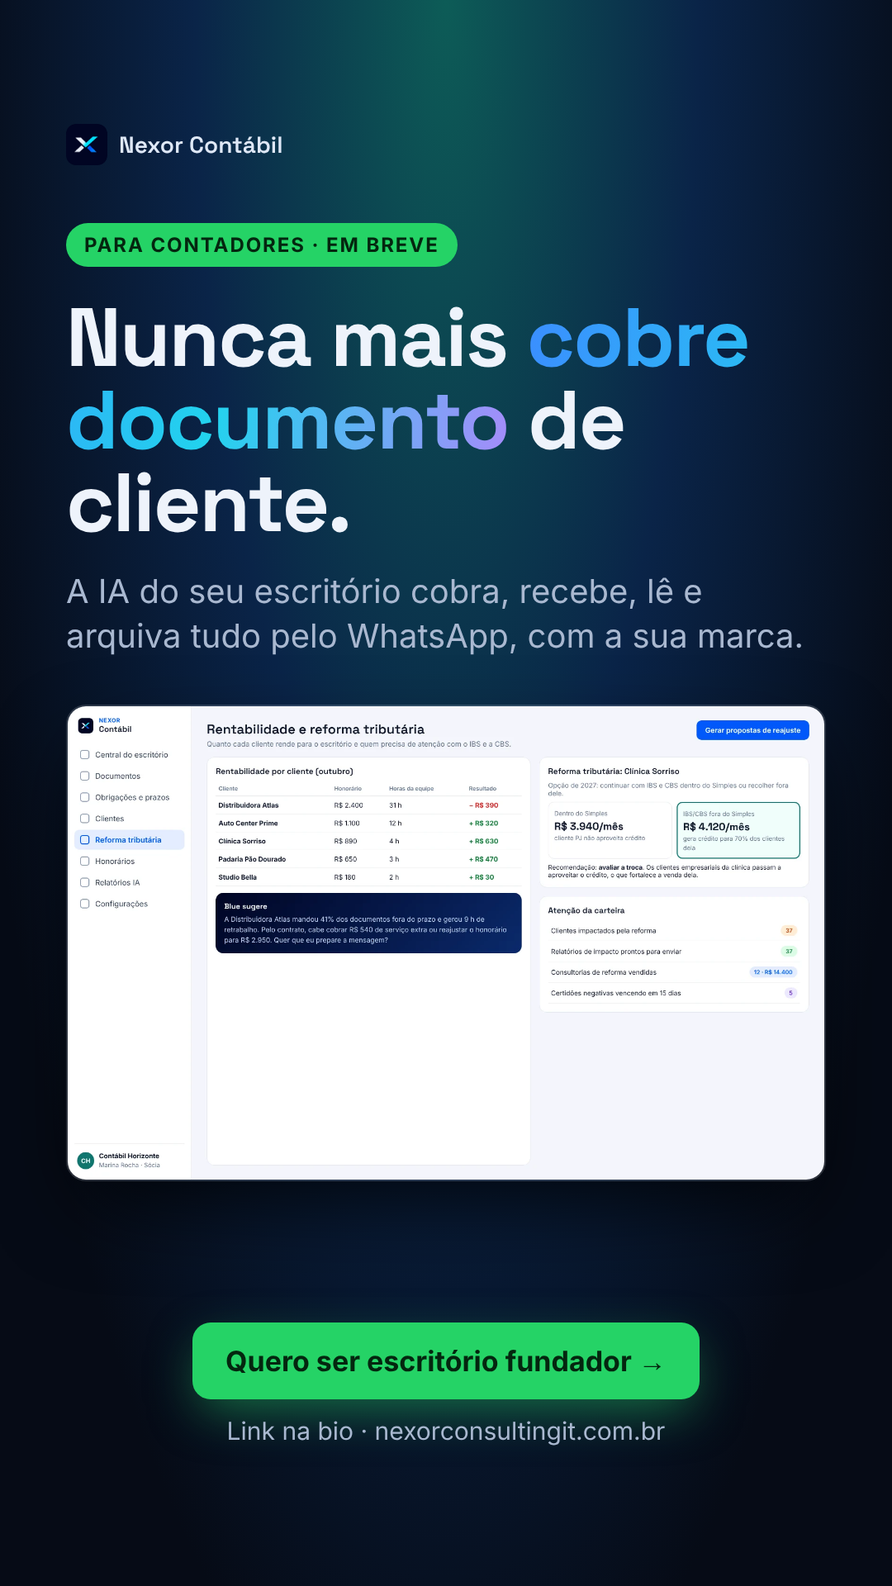
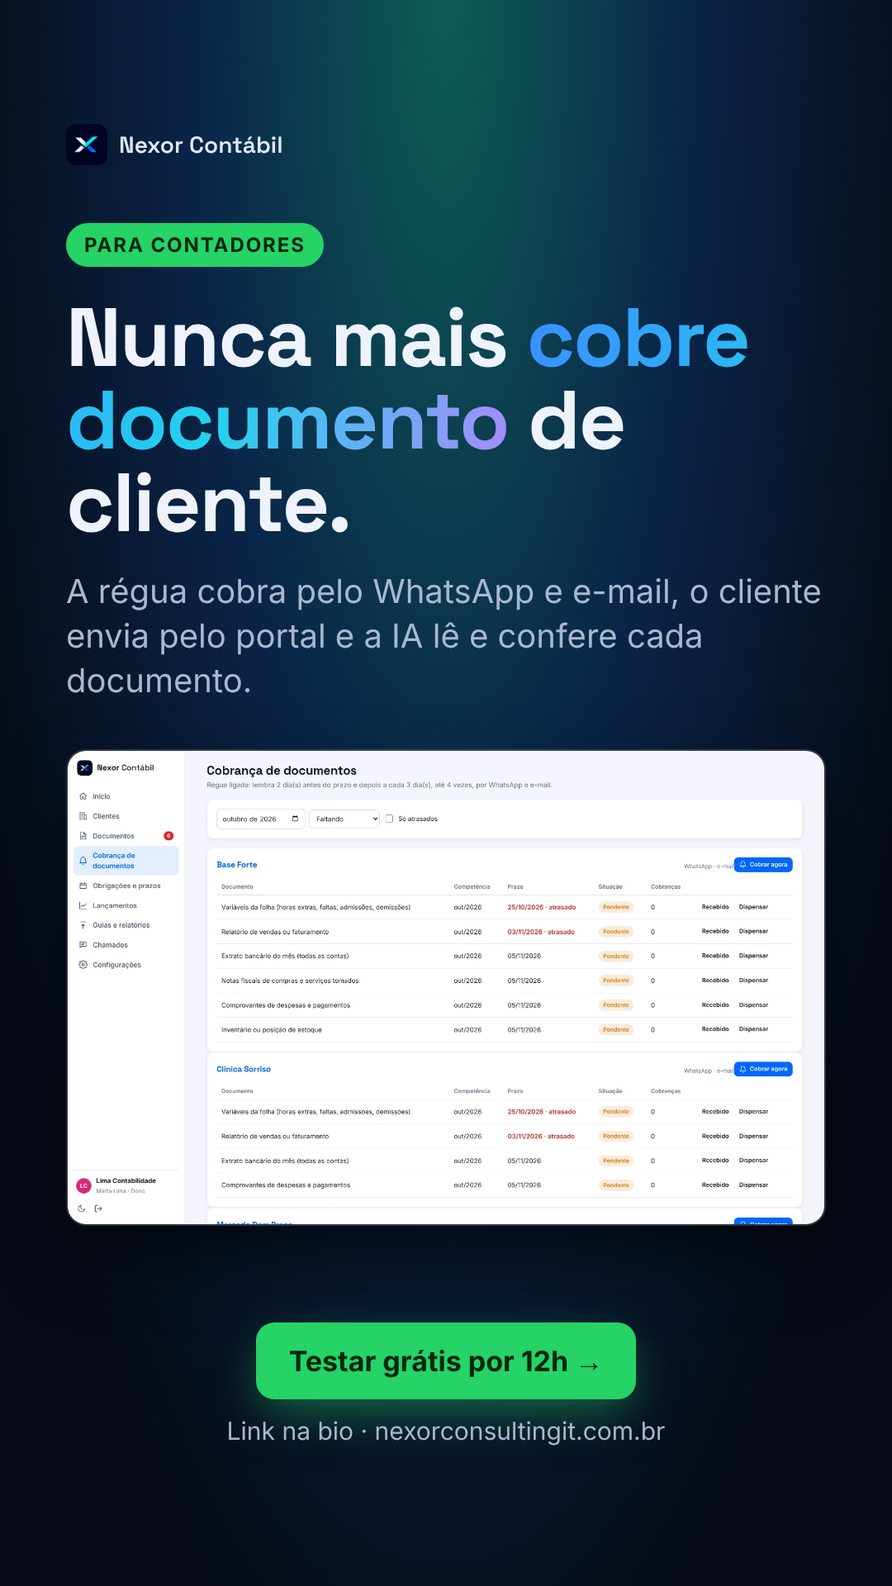
Tira Contábil, Agente, Barber e RH do Em breve na Blue e nos materiais
- Blue: Nexor Barber, Nexor Contábil e Nexor Agente entram na lista de soluções disponíveis,
  com os recursos que existem nos sistemas; saem do Em breve
- Peça de portfólio refeita: 23 soluções, com RH e Ponto, Contábil, Barber e Agente prontos
- Peças do Contábil com telas reais e teste grátis no lugar de Em breve e Fundadores,
  sem rentabilidade e reforma tributária, que o sistema não tem
- Legendas do kit e status das fichas de produto atualizados

Claude-Session: https://claude.ai/code/session_01HtYmcSBTzVETGZN32eqMPh

Changed region(s): [[0.0611, 0.3438, 0.9472, 0.7812], [0.2139, 0.8125, 0.7944, 0.9062], [0.3361, 0.125, 0.5194, 0.1875]]

diff --git a/marketing/fonte/pecas.html b/marketing/fonte/pecas.html
@@ -159,12 +159,12 @@ h1, h2, h3, .t { font-family: "Space Grotesk", Inter, sans-serif; letter-spacing
 <!-- P3b: Portfólio atualizado (novembro de 2026) -->
 <section class="peca post" id="portfolio">
   <div class="topo"><img class="logo" src="img/logo-lockup.webp" alt=""><span class="selo ciano">Portfólio</span></div>
-  <h1 style="font-size:92px;line-height:1;margin-top:48px"><span class="grad">20 soluções</span> para cada etapa da sua empresa.</h1>
-  <div style="display:grid;grid-template-columns:1fr 1fr;gap:20px;margin-top:48px">
-    <div class="cartao" style="padding:28px"><p class="t" style="font-size:30px;font-weight:700;color:#7fb2ff">Vender e organizar</p><p style="font-size:28px;line-height:1.5;margin-top:10px;color:#dfe8f7">Atende IA · Commerce<br>Gestão (ERP/CRM)<br>Site Pro · Automação<br>Sob Medida</p></div>
-    <div class="cartao" style="padding:28px"><p class="t" style="font-size:30px;font-weight:700;color:#86efac">Pessoas e LGPD</p><p style="font-size:28px;line-height:1.5;margin-top:10px;color:#dfe8f7">Nexor RH: ponto, folha,<br>eSocial e recrutamento<br>Consultoria de LGPD</p></div>
-    <div class="cartao" style="padding:28px;grid-column:span 2"><p class="t" style="font-size:30px;font-weight:700;color:#67e8f9">Para TI</p><p style="font-size:28px;line-height:1.5;margin-top:10px;color:#dfe8f7">Service Desk · Cofre de senhas · IT Platform</p></div>
-    <div class="cartao" style="padding:28px;grid-column:span 2;border-color:#0e7490"><p class="t" style="font-size:30px;font-weight:700;color:#a5f3fc">Em breve · Laboratório Nexor</p><p style="font-size:28px;line-height:1.5;margin-top:10px;color:#dfe8f7">Cobra IA · Agenda IA · Voz IA · Vendedor IA · Pedidos IA · Documentos IA · Gestor IA · Parceiros · Shield</p></div>
+  <h1 style="font-size:88px;line-height:1;margin-top:44px"><span class="grad">23 soluções</span> para cada etapa da sua empresa.</h1>
+  <div style="display:grid;grid-template-columns:1fr 1fr;gap:18px;margin-top:42px">
+    <div class="cartao" style="padding:26px"><p class="t" style="font-size:29px;font-weight:700;color:#7fb2ff">Vender e organizar</p><p style="font-size:27px;line-height:1.45;margin-top:10px;color:#dfe8f7">Atende IA · Commerce<br>Gestão (ERP/CRM)<br>Site Pro · Automação<br>Sob Medida</p></div>
+    <div class="cartao" style="padding:26px"><p class="t" style="font-size:29px;font-weight:700;color:#86efac">Sistemas por segmento</p><p style="font-size:27px;line-height:1.45;margin-top:10px;color:#dfe8f7">Nexor RH e Ponto<br>Nexor Contábil<br>Nexor Barber<br>Nexor Agente</p></div>
+    <div class="cartao" style="padding:26px;grid-column:span 2"><p class="t" style="font-size:29px;font-weight:700;color:#67e8f9">Para TI e LGPD</p><p style="font-size:27px;line-height:1.45;margin-top:10px;color:#dfe8f7">Service Desk · Cofre de senhas · IT Platform · Consultoria de LGPD</p></div>
+    <div class="cartao" style="padding:26px;grid-column:span 2;border-color:#0e7490"><p class="t" style="font-size:29px;font-weight:700;color:#a5f3fc">Em breve · Laboratório Nexor</p><p style="font-size:27px;line-height:1.45;margin-top:10px;color:#dfe8f7">Cobra IA · Agenda IA · Voz IA · Vendedor IA · Pedidos IA · Documentos IA · Gestor IA · Parceiros · Shield</p></div>
   </div>
   <div class="rod"><span>Inteligência • Desenvolvimento • Automação</span><span><b>nexorconsultingit.com.br</b></span></div>
 </section>
@@ -228,47 +228,47 @@ h1, h2, h3, .t { font-family: "Space Grotesk", Inter, sans-serif; letter-spacing
     <div><i>3</i>Nota digitada e conciliação feita na mão</div>
     <div><i>4</i>Retrabalho que nunca vira cobrança</div>
   </div>
-  <p style="font-size:36px;line-height:1.35;margin-top:48px;color:#ccfbf1">Em breve, a IA faz isso pelo seu escritório. <b>Com a sua marca.</b></p>
-  <div class="rod"><span>Nexor Contábil · em breve</span><span><b>nexorconsultingit.com.br</b></span></div>
+  <p style="font-size:36px;line-height:1.35;margin-top:48px;color:#ccfbf1">O Nexor Contábil cobra, recebe e lê tudo isso pelo seu escritório. <b>Com a sua marca.</b></p>
+  <div class="rod"><span>Nexor Contábil · teste grátis 12h</span><span><b>nexorconsultingit.com.br</b></span></div>
 </section>
 
 <!-- C2: Produto -->
 <section class="peca post" id="contabil-produto" style="background:radial-gradient(ellipse at 50% 0%, #0d5c57 0%, #0a2448 45%, #060b16 85%)">
-  <div class="topo"><img class="logo" src="img/logo-lockup.webp" alt=""><span class="selo ciano">Em breve</span></div>
+  <div class="topo"><img class="logo" src="img/logo-lockup.webp" alt=""><span class="selo verde">Nexor Contábil</span></div>
   <h1 style="font-size:76px;line-height:1;margin-top:36px">Seu escritório de contabilidade <span class="grad">no piloto automático.</span></h1>
-  <div class="tela" style="margin-top:34px;border-radius:22px;overflow:hidden;border:2px solid rgba(255,255,255,.15)"><img src="img/contabil-0.webp" alt="Prévia do Nexor Contábil" style="width:100%;display:block"></div>
+  <div class="tela" style="margin-top:34px;border-radius:22px;overflow:hidden;border:2px solid rgba(255,255,255,.15)"><img src="img/contabil-leitura.webp" alt="Tela real do Nexor Contábil" style="width:100%;display:block"></div>
   <div style="display:grid;gap:14px;margin-top:30px;margin-bottom:30px;font-size:32px;line-height:1.3;color:#e2e8f0">
-    <p>✅ A IA cobra, recebe, lê e arquiva os documentos</p>
-    <p>✅ Pré-lançamentos para o sistema que você já usa</p>
-    <p>✅ Rentabilidade por cliente e reforma tributária</p>
+    <p>✅ Cobra os documentos do mês por WhatsApp e e-mail</p>
+    <p>✅ A IA lê, confere e sugere os lançamentos</p>
+    <p>✅ Exporta para o sistema contábil que você já usa</p>
   </div>
-  <div class="rod"><span>Prévia ilustrativa · produto em desenvolvimento</span><span><b>Nexor Contábil</b></span></div>
+  <div class="rod"><span>Tela real · dados de demonstração</span><span><b>Teste grátis 12h</b></span></div>
 </section>
 
-<!-- C3: Fundadores -->
-<section class="peca post" id="contabil-fundadores">
+<!-- C3: Teste grátis -->
+<section class="peca post" id="contabil-teste">
   <div class="brilho" style="width:760px;height:760px;background:#14b8a6;left:160px;top:380px;opacity:.28"></div>
-  <div class="topo"><img class="logo" src="img/logo-lockup.webp" alt=""><span class="selo verde">Vagas limitadas</span></div>
+  <div class="topo"><img class="logo" src="img/logo-lockup.webp" alt=""><span class="selo verde">Teste grátis</span></div>
   <div style="margin-top:auto;margin-bottom:auto;position:relative">
     <p style="font-size:34px;font-weight:700;letter-spacing:.12em;color:#5eead4">NEXOR CONTÁBIL</p>
-    <h1 style="font-size:104px;line-height:.98;margin-top:22px">Procuramos <span class="grad">escritórios fundadores.</span></h1>
+    <h1 style="font-size:100px;line-height:.98;margin-top:22px">Teste no seu escritório <span class="grad">por 12 horas.</span></h1>
     <div style="display:grid;gap:22px;margin-top:40px;font-size:36px;line-height:1.3;color:#e2e8f0">
-      <p>• Use a primeira versão antes de todo mundo</p>
-      <p>• Ajude a moldar o produto para a sua rotina</p>
-      <p>• Garanta condição especial no lançamento</p>
+      <p>• Veja a IA ler e conferir uma nota na hora</p>
+      <p>• Cobre um documento e veja a mensagem que o cliente recebe</p>
+      <p>• Sem cartão de crédito</p>
     </div>
   </div>
-  <div class="rod"><span class="cta verde">Quero ser fundador</span><span style="text-align:right"><b>(34) 99733-7499</b><br>nexorconsultingit.com.br</span></div>
+  <div class="rod"><span class="cta verde">Testar grátis</span><span style="text-align:right"><b>(34) 99733-7499</b><br>nexorconsultingit.com.br</span></div>
 </section>
 
 <!-- C4: Story -->
 <section class="peca story" id="contabil-story" style="background:radial-gradient(ellipse at 50% 0%, #0d5c57 0%, #0a2448 40%, #060b16 80%)">
   <div class="marca-mini"><img src="img/logo-mark.webp" alt="">Nexor Contábil</div>
-  <span class="selo verde" style="align-self:flex-start;margin-top:70px">Para contadores · em breve</span>
+  <span class="selo verde" style="align-self:flex-start;margin-top:70px">Para contadores</span>
   <h1 style="font-size:100px;line-height:1;margin-top:36px">Nunca mais <span class="grad">cobre documento</span> de cliente.</h1>
-  <p style="font-size:40px;color:var(--suave);margin-top:30px;line-height:1.35">A IA do seu escritório cobra, recebe, lê e arquiva tudo pelo WhatsApp, com a sua marca.</p>
-  <div class="tela" style="margin-top:56px;border-radius:24px;overflow:hidden;border:2px solid rgba(255,255,255,.15)"><img src="img/contabil-1.webp" alt="Prévia do Nexor Contábil" style="width:100%;display:block"></div>
-  <div style="margin-top:auto;display:flex;flex-direction:column;gap:20px;align-items:center"><span class="cta verde">Quero ser escritório fundador →</span><p style="font-size:30px;color:var(--suave)">Link na bio · nexorconsultingit.com.br</p></div>
+  <p style="font-size:40px;color:var(--suave);margin-top:30px;line-height:1.35">A régua cobra pelo WhatsApp e e-mail, o cliente envia pelo portal e a IA lê e confere cada documento.</p>
+  <div class="tela" style="margin-top:56px;border-radius:24px;overflow:hidden;border:2px solid rgba(255,255,255,.15)"><img src="img/contabil-cobranca.webp" alt="Tela real do Nexor Contábil" style="width:100%;display:block"></div>
+  <div style="margin-top:auto;display:flex;flex-direction:column;gap:20px;align-items:center"><span class="cta verde">Testar grátis por 12h →</span><p style="font-size:30px;color:var(--suave)">Link na bio · nexorconsultingit.com.br</p></div>
 </section>
 
 <!-- ===================== SUGESTÕES ===================== -->

diff --git a/agent/src/conhecimento.js b/agent/src/conhecimento.js
@@ -42,6 +42,9 @@ Soluções:
 • Nexor Commerce: loja virtual com Pix, cartão e boleto, integrada a Mercado Livre, Shopee, Amazon e Magalu, estoque unificado, antifraude, recuperação de carrinho e recomendação de produtos com IA.
 • Nexor Gestão: ERP e CRM sob medida. Financeiro, vendas, estoque, compras, emissão de NF-e, conciliação bancária, funil de vendas com lead scoring por IA e dashboards.
 • Nexor RH: sistema de RH completo. Ponto eletrônico pelo app do colaborador com biometria do próprio celular (digital ou rosto), QR Code rotativo num tablet na entrada e cerca de GPS; ponto no quiosque com CPF e PIN para quem está sem celular. Segue a Portaria MTP 671/2021 (REP-P: número sequencial, comprovante, arquivos AFD e AEJ). Espelho de ponto com horas extras, adicional noturno, banco de horas e ajustes pedidos pelo app; férias com alerta de vencimento, atestados com foto pelo app, folha mensal, 13º e rescisão, holerite no app, recrutamento com página de vagas, comunicados e eventos do eSocial gerados e assinados com o certificado A1 da empresa.
+• Nexor Barber: sistema para barbearias com app do cliente que instala no celular sem loja. O cliente entra com Google, código no WhatsApp ou SMS e agenda "o de sempre" em um toque (o app lembra o barbeiro, o serviço e o horário). Clube de assinatura com cobrança recorrente por Pix, boleto ou cartão (Asaas) ou no balcão: o app reconhece o assinante e mostra o que o plano cobre em cada agendamento. Produtos com estoque: o cliente reserva no app e paga junto com o corte. Vaga relâmpago para a lista de espera quando alguém cancela, lembrete de retorno no ciclo de corte de cada cliente, comanda, caixa, comissões por barbeiro, folgas e relatórios. Cada barbeiro tem login próprio e a barbearia configura tudo sozinha no painel.
+• Nexor Contábil: sistema para escritórios de contabilidade e contadores autônomos. Cobra os documentos do mês de cada cliente com uma régua automática por WhatsApp e e-mail; a IA lê notas, extratos e recibos, confere CNPJ, duplicidade e competência e sugere os pré-lançamentos, que aprendem com as correções do contador, com conciliação com o extrato e exportação no layout do sistema contábil que o escritório já usa (compatibilidade confirmada no diagnóstico). Obrigações e prazos por cliente e competência (prazo legal com feriados e dias úteis, prazo interno, responsável e tempo gasto) e portal do cliente com a marca do escritório (pendências, envio de documentos, guias e chamados). A leitura da IA é sempre conferida por uma pessoa. Não diga que tem rentabilidade por cliente nem simulador da reforma tributária.
+• Nexor Agente: IA pessoal no WhatsApp para o dono do negócio. Ele personaliza a IA conversando (nome, jeito de falar, instruções e memórias) e pede tarefas que ela executa nos sistemas da empresa que tenham API (ERP, CRM, financeiro e outros), conectados pela Nexor. Consultas são feitas na hora; criar, editar ou apagar dados só acontece depois que o dono toca em Aprovar no WhatsApp (o pedido expira em 30 minutos). Só os números autorizados dão ordens, as senhas ficam no servidor da empresa e tudo fica registrado em auditoria. Não prometa que funciona com um sistema específico sem confirmar no diagnóstico.
 • Nexor Site Pro: sites institucionais e landing pages rápidos, com SEO técnico, formulários ligados ao WhatsApp e CRM e assistente de IA no site.
 • Nexor Automação: agentes de IA para processos internos, como leitura de notas fiscais, boletos e contratos (OCR + IA), relatórios automáticos, cobrança e follow-up, com trilha de auditoria e LGPD.
 • Nexor Sob Medida: aplicativos iOS e Android, plataformas SaaS, marketplaces, integrações e modernização de sistemas legados. O código-fonte e a documentação são do cliente.
@@ -55,8 +58,6 @@ Onde ficam os dados e LGPD: todo sistema da Nexor é implantado no ambiente do c
 
 Em breve (prévia, ainda sem data de lançamento): Nexor Shield, testes de segurança de sites. Varredura contínua e não invasiva, nota de segurança por site e pentest manual no padrão OWASP, sempre com autorização assinada do dono do site e comprovação do domínio. Para quem se interessar, registre o lead com a solução "Nexor Shield".
 Em breve (prévia, ainda sem data de lançamento): Nexor One, a plataforma que junta atendimento, vendas, estoque, financeiro, RH e ponto, TI e segurança num só sistema, com uma única IA (a Blue) trabalhando em todos os setores. Exemplo: o cliente pede no WhatsApp, e a IA reserva o estoque, emite a nota, envia o Pix e agenda a entrega. É montado para o segmento da empresa (a empresa liga só os módulos que precisa), roda no servidor ou na nuvem da própria empresa e o código-fonte é entregue. Não informe preço nem prazo de lançamento. Para quem se interessar, registre o lead com a solução "Nexor One" e diga que os primeiros clientes terão condição especial.
-Em breve (prévia, ainda sem data de lançamento): Nexor Contábil, para escritórios de contabilidade e contadores autônomos. Um assistente no WhatsApp com a marca do escritório cobra os documentos dos clientes, recebe, lê com IA (notas, extratos, recibos) e arquiva por cliente e competência; prepara pré-lançamentos e conciliação para o sistema contábil que o escritório já usa (Domínio, Alterdata, Questor e outros, a confirmar no diagnóstico); painel de prazos, guias, certidões e pendências; portal do cliente; rentabilidade por cliente, honorários e retrabalho; simulador da reforma tributária (IBS e CBS) por cliente; relatórios gerenciais com IA para o escritório vender consultoria. Fica instalado no servidor ou na nuvem do escritório. O escritório também pode revender as soluções da Nexor para a própria carteira e ganhar recorrência. Não informe preço nem prazo. Para quem se interessar, registre o lead com a solução "Nexor Contábil".
-Em breve (prévia, ainda sem data de lançamento): Nexor Agente, uma IA pessoal no WhatsApp para o dono do negócio. Ele personaliza a IA conversando (nome, jeito de falar, regras e memórias) e pede tarefas que ela executa nos sistemas da empresa que tenham API (ERP, CRM, financeiro, agenda e outros), conectados pela Nexor. Consultas são feitas na hora; criar, editar ou apagar dados só acontece depois que o dono toca em Aprovar no WhatsApp. Só o número do dono dá ordens, as senhas ficam no servidor e tudo fica registrado. Roda no servidor da empresa. Não prometa que funciona com "qualquer sistema" sem confirmar no diagnóstico. Não informe preço nem prazo. Para quem se interessar, registre o lead com a solução "Nexor Agente".
 
 Integrações: a Nexor integra com a maioria dos sistemas do mercado (ERPs, marketplaces, meios de pagamento, CRMs, ferramentas de marketing e planilhas). Se o cliente citar um sistema específico, diga que a equipe confirma os detalhes da integração no diagnóstico.
 Também fazem cloud e DevOps, BI e dashboards.

diff --git a/marketing/README.md b/marketing/README.md
@@ -2,7 +2,7 @@
 
 14 peças prontas para postar, com legenda, hashtags e onde usar cada uma. As imagens estão em [`pecas/`](pecas/). Para mudar um texto ou criar novas versões, edite [`fonte/pecas.html`](fonte/pecas.html) (abre no navegador).
 
-Regra de ouro: toda peça leva para o site (teste grátis de 12 horas ou lista de espera) ou para o WhatsApp. Os números de mercado citados vêm das fontes indicadas no site. As telas do Atende IA são reais, com dados de demonstração. As telas dos produtos “Em breve” são prévias ilustrativas.
+Regra de ouro: toda peça leva para o site (teste grátis de 12 horas ou lista de espera) ou para o WhatsApp. Os números de mercado citados vêm das fontes indicadas no site. As telas do Atende IA e do Nexor Contábil são reais, com dados de demonstração. As telas dos produtos “Em breve” são prévias ilustrativas.
 
 | Peça | Formato | Onde usar |
 | --- | --- | --- |
@@ -12,7 +12,7 @@ Regra de ouro: toda peça leva para o site (teste grátis de 12 horas ou lista d
 | `blue-story-em-breve.png` | Story | Stories, status do WhatsApp |
 | `atende-24h.png` | Post 4:5 | Instagram, Facebook, anúncio |
 | `atende-quem-compra.png` | Post 4:5 | Instagram, LinkedIn |
-| `portfolio.png` | Post 4:5 · portfólio atual com 20 soluções | Instagram, LinkedIn, grupos |
+| `portfolio.png` | Post 4:5 · portfólio atual com 23 soluções | Instagram, LinkedIn, grupos |
 | `portfolio-17.png` | Post 4:5 · versão antiga (17 soluções) | Não usar mais |
 | `lgpd-checklist.png` | Post 4:5 · autodiagnóstico de LGPD | LinkedIn, Instagram, anúncio |
 | `em-breve-8.png` | Post 4:5 | Instagram, LinkedIn |
@@ -75,11 +75,11 @@ Dica: use a figurinha de enquete “Qual você quer primeiro?” com duas opçõ
 >
 > #crm #funildevendas #gestaocomercial #IA #vendasonline
 
-### `portfolio.png` — 20 soluções
-> Do atendimento à gestão, das pessoas à TI: são 20 soluções para cada etapa da sua empresa. 🚀
+### `portfolio.png` — 23 soluções
+> Do atendimento à gestão, das pessoas à TI: são 23 soluções para cada etapa da sua empresa. 🚀
 > 🔹 Atende IA · Commerce · Gestão · Site Pro · Automação · Sob Medida
-> 🔹 Nexor RH (ponto, folha, eSocial e recrutamento) · Consultoria de LGPD
-> 🔹 Service Desk · Cofre de senhas · IT Platform
+> 🔹 Nexor RH e Ponto · Nexor Contábil · Nexor Barber · Nexor Agente
+> 🔹 Service Desk · Cofre de senhas · IT Platform · Consultoria de LGPD
 > 🔹 E 9 novidades chegando no Laboratório Nexor, incluindo o Nexor Shield
 > Conheça todas e teste grátis: nexorconsultingit.com.br
 >
@@ -108,34 +108,34 @@ Figurinha de link: **Testar grátis** → `https://www.nexorconsultingit.com.br/
 
 ---
 
-## Para contadores (Nexor Contábil, em breve)
+## Para contadores (Nexor Contábil)
 
 Público: escritórios de contabilidade e contadores autônomos. Use também em grupos de contadores, eventos do CRC e na ACIUB. Página de destino: `/solucoes/sistema-para-escritorio-de-contabilidade/`.
 
 ### `contabil-dor.png` — Quantas horas você perde cobrando documento?
 > Contador, quantas horas por semana o seu escritório gasta cobrando extrato, nota e recibo pelo WhatsApp? 📎
 >
-> Cliente que esquece, arquivo perdido em grupo, conciliação na mão e retrabalho que ninguém cobra. A gente conhece essa rotina, e está criando uma IA para acabar com ela.
+> Cliente que esquece, arquivo perdido em grupo, conciliação na mão e retrabalho que ninguém cobra. A gente conhece essa rotina, e o Nexor Contábil acaba com ela: cobra, recebe e lê os documentos com a marca do seu escritório.
 >
-> Em breve: Nexor Contábil. Comenta "EU" que te mando a prévia.
+> Teste grátis por 12 horas no link da bio. Ou comenta "EU" que te mando o vídeo.
 >
-> #contabilidade #contador #escritoriocontabil #reformatributaria #inteligenciaartificial #uberlandia
+> #contabilidade #contador #escritoriocontabil #inteligenciaartificial #uberlandia
 
 ### `contabil-produto.png` — Escritório no piloto automático
-> Imagina o assistente do seu escritório no WhatsApp cobrando os documentos, recebendo, lendo e arquivando tudo por cliente e competência. Com a sua marca. 🤖
+> O Nexor Contábil cobra os documentos do mês por WhatsApp e e-mail, a IA lê cada nota e extrato, confere CNPJ e duplicidade e sugere os lançamentos. Com a sua marca. 🤖
 >
-> E mais: pré-lançamentos para o sistema contábil que você já usa, rentabilidade por cliente e simulador da reforma tributária.
+> E mais: exportação para o sistema contábil que você já usa, obrigações com prazo e portal do cliente.
 >
-> Nexor Contábil, em breve. Link na bio para ver a prévia.
+> Essa é uma tela real do sistema. Teste grátis por 12 horas: link na bio.
 >
 > #contabilidade #contador #automacao #ia #escritoriocontabil
 
-### `contabil-fundadores.png` — Procuramos escritórios fundadores
-> Estamos selecionando escritórios de contabilidade para serem fundadores do Nexor Contábil. 🚀
+### `contabil-teste.png` — Teste no seu escritório por 12 horas
+> Quer ver a IA ler e conferir uma nota fiscal na hora? 🚀
 >
-> Quem entra primeiro usa antes de todo mundo, ajuda a moldar o produto para a rotina real do escritório e garante condição especial no lançamento.
+> No teste grátis do Nexor Contábil você recebe documentos de exemplo, confere os lançamentos, cobra um cliente e vê a mensagem que ele recebe. Sem cartão de crédito.
 >
-> Vagas limitadas. Chama no WhatsApp (34) 99733-7499 ou pelo link na bio.
+> Link na bio ou chama no WhatsApp (34) 99733-7499.
 >
 > #contador #contabilidade #escritoriocontabil #inovacao #uberlandia
 

diff --git a/marketing/produtos/nexor-contabil.md b/marketing/produtos/nexor-contabil.md
@@ -3,7 +3,7 @@
 **Para escritórios de contabilidade e contadores autônomos.**
 Frase do produto: *O escritório no piloto automático. O contador no papel de consultor.*
 
-Status: **em breve** (prévia publicada no site, seção Em breve). Este documento é a especificação de produto: dores, concorrência, módulos, diferenciais, preço, parceria e plano de lançamento.
+Status: **lançado** (sistema em `contabil/`, página e teste grátis no site). Rentabilidade por cliente e simulador da reforma tributária ainda não existem no sistema: não anunciar. Este documento é a especificação de produto: dores, concorrência, módulos, diferenciais, preço, parceria e plano de lançamento.
 
 ---
 

diff --git a/marketing/produtos/nexor-agente.md b/marketing/produtos/nexor-agente.md
@@ -1,7 +1,7 @@
 # Nexor Agente
 
 **IA pessoal no WhatsApp, personalizada pelo próprio cliente, que executa tarefas nos sistemas da empresa com aprovação do dono.**
-Status: **primeira versão funcionando** no código (`nexor-agente/`), prévia "Em breve" no site.
+Status: **lançado** (código em `nexor-agente/`, página e teste grátis no site).
 
 ## A promessa (com honestidade)
 - **"Fala com ela pelo WhatsApp e ela faz o que você pedir"** → sim, dentro dos sistemas **conectados**.
